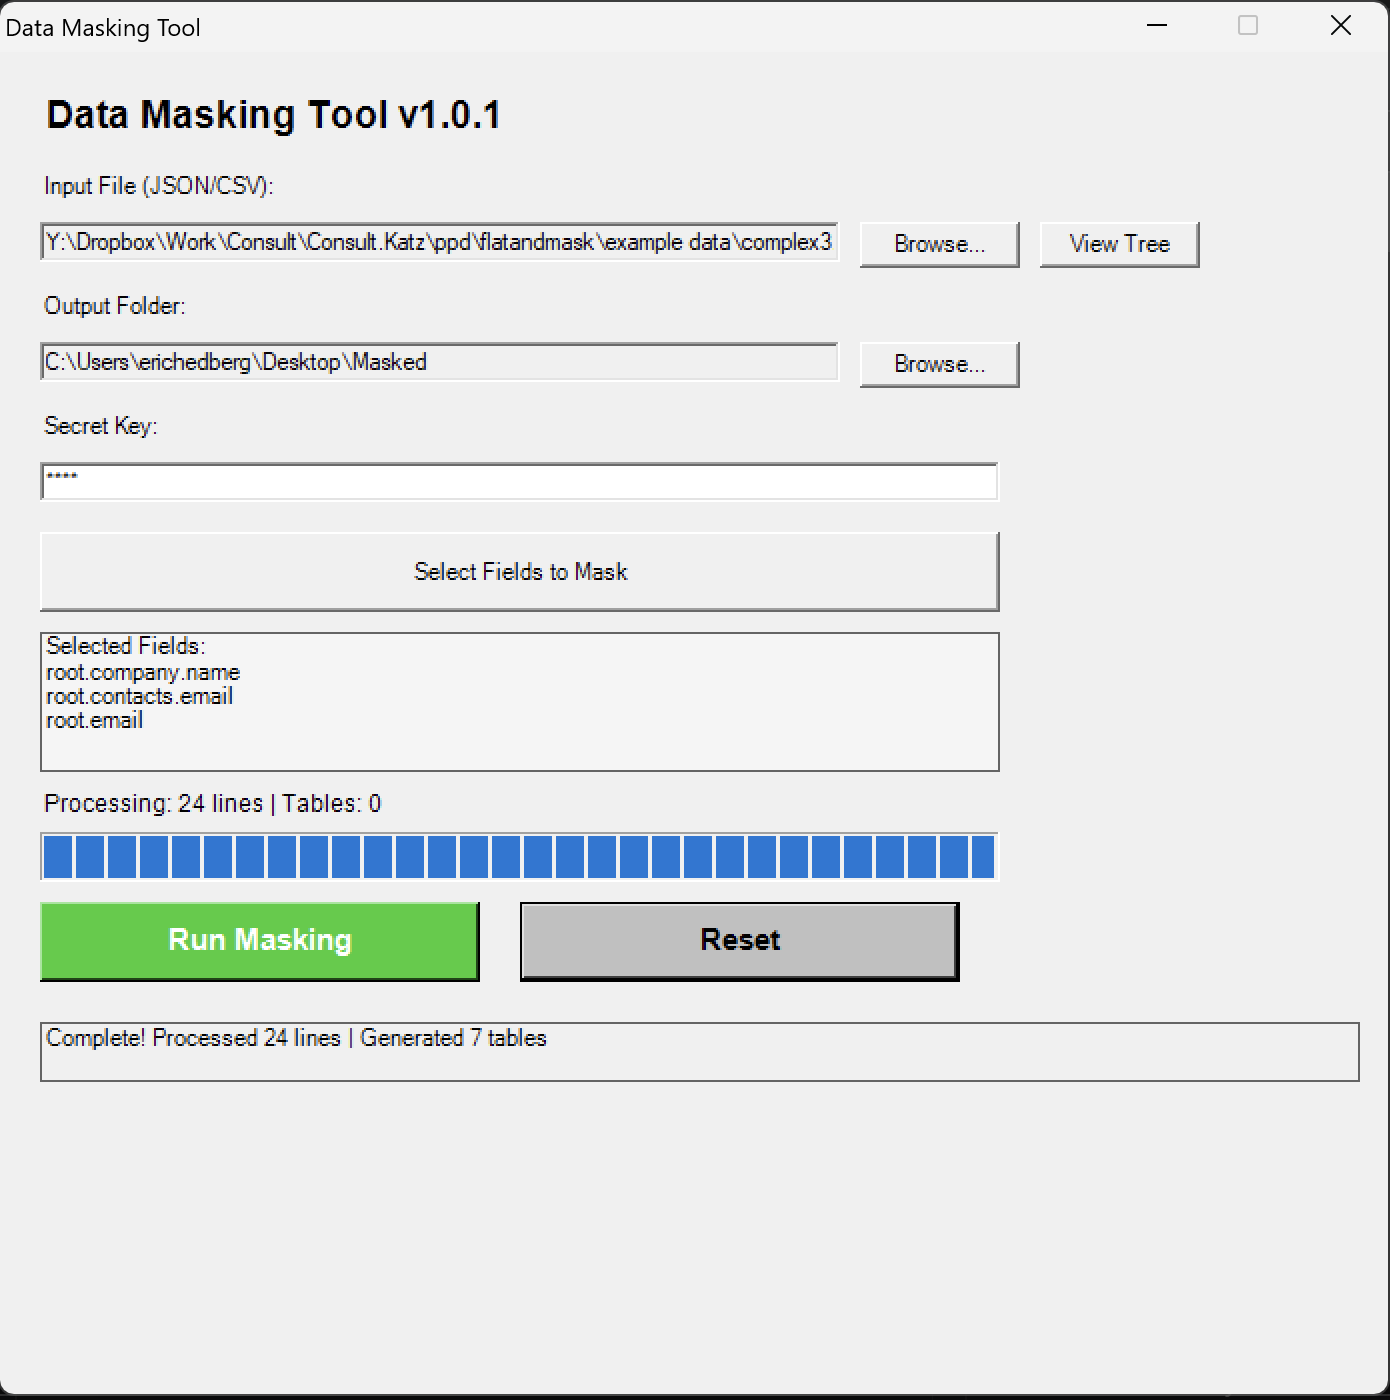
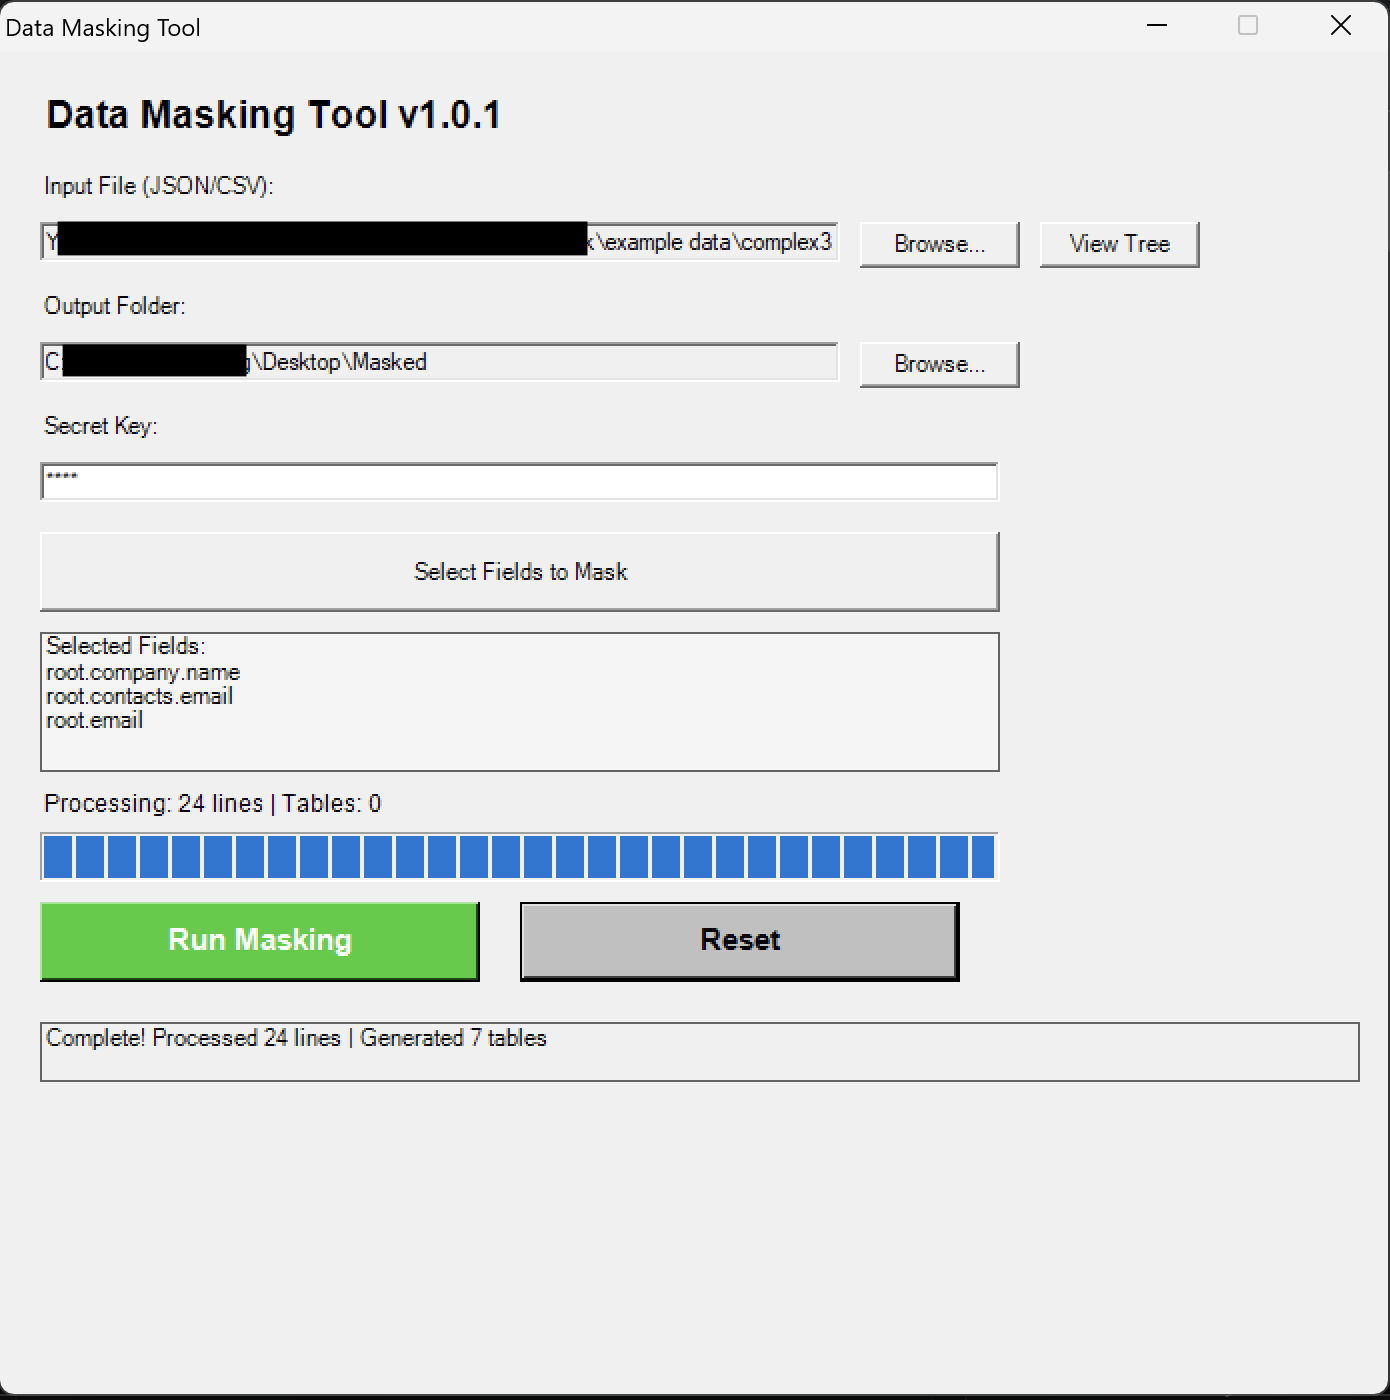
1.0.3

Changed region(s): [[0.0309, 0.1536, 0.4331, 0.1843], [0.0309, 0.2457, 0.1856, 0.2764]]

diff --git a/README.md b/README.md
@@ -1,6 +1,6 @@
 # Data Masking Tool
 
-**Version 1.0.1**
+**Version 1.0.3**
 
 ## ⚠ Disclaimer
 
@@ -527,6 +527,7 @@ launch.bat                        # Batch launcher (optional)
 
 ## Version History
 
+- **v1.0.3** - Updated release version
 - **v1.0.1** - Consolidated single file, JSON tree viewer, complete CSV masking, table normalization, deterministic IDs for merging
 - **v1.0.0** - Initial multi-file release
 

diff --git a/build/dist/README.md b/build/dist/README.md
@@ -1,4 +1,4 @@
-# Data Masking Tool v1.0.1
+# Data Masking Tool v1.0.3
 
 ## Quick Start
 Double-click launch.bat to launch the tool
